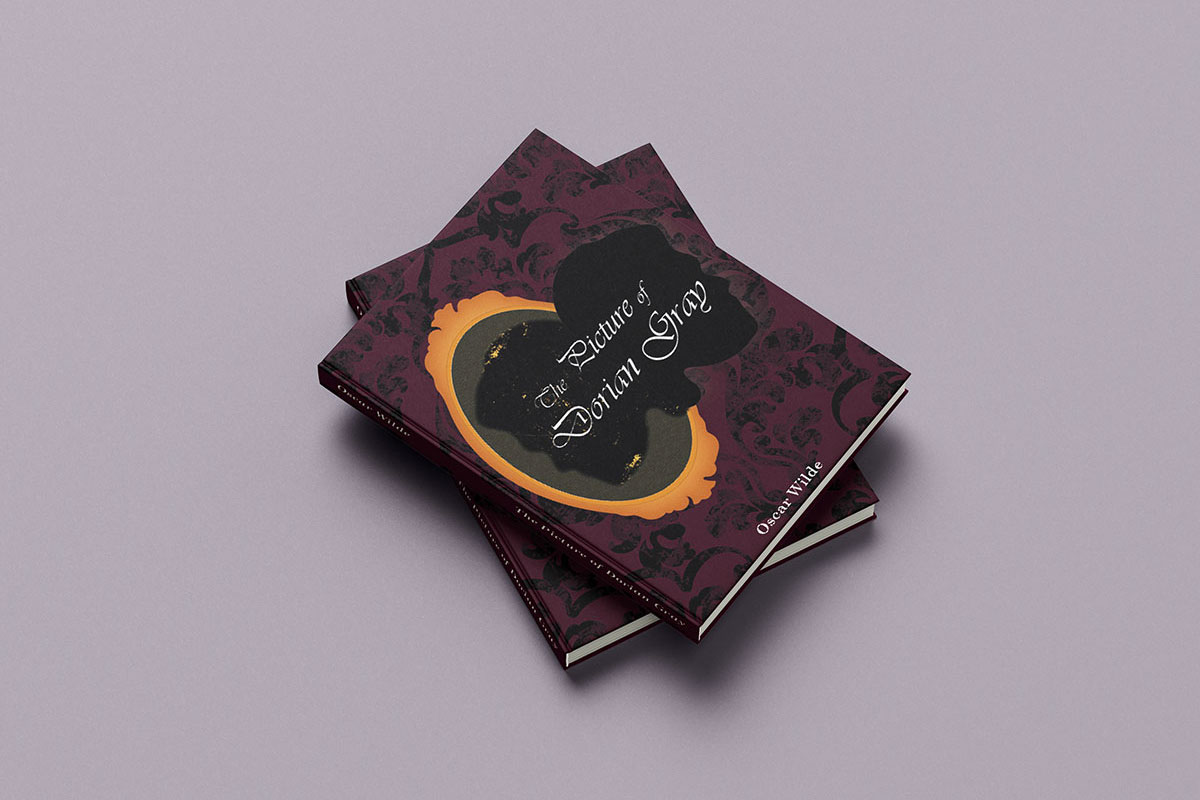
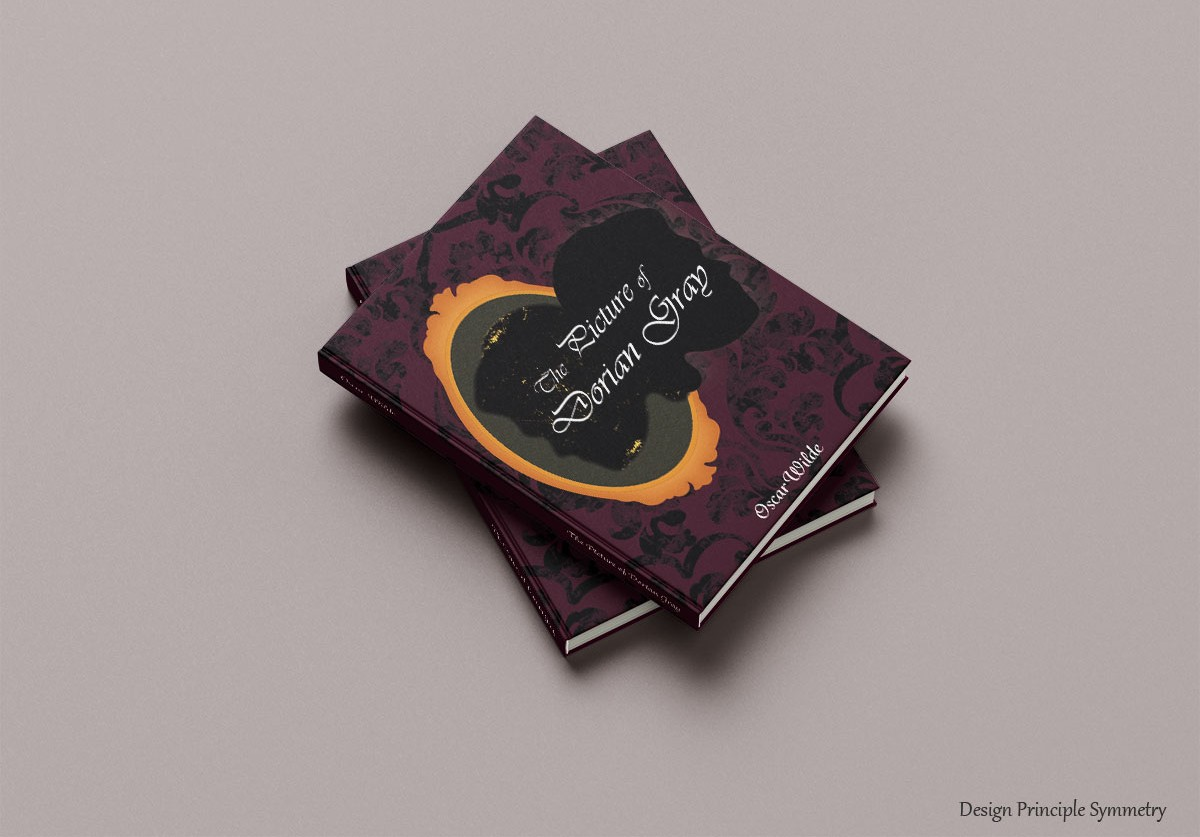
retoque book

Changed region(s): [[0.2467, 0.125, 0.7708, 0.9062], [0.8017, 0.9375, 0.9558, 1.0]]

diff --git a/printDesign/DGcover.html b/printDesign/DGcover.html
@@ -37,12 +37,12 @@
 
             <div class="showcase">
                 <div class="one">
-                    <img src="../images/print/RCover.jpg" alt="rcover">
+                    <img src="../images/print/BookCover.jpg" alt="cover">
                 </div>
                 <img src="../images/print/RBookCover.jpg" alt="Rmockup">
-                <img src="../images/print/repetition.jpg" alt="repetition">
+                <img src="../images/print/repetition.png" alt="repetition">
                 <img src="../images/print/SCover.jpg" alt="Smockup">
-                <img src="../images/print/symmetry.jpg" alt="symmetry">
+                <img src="../images/print/symmetry.png" alt="symmetry">
             </div>
             <h4>The repetition design principle is the use of similar or identical elements in a design to create consistency and unity</4>
             <h4>Symmetry is a design principle that uses visual balance to create order, harmony, and stability. It's often achieved by mirroring elements across a central axis.</h4>
